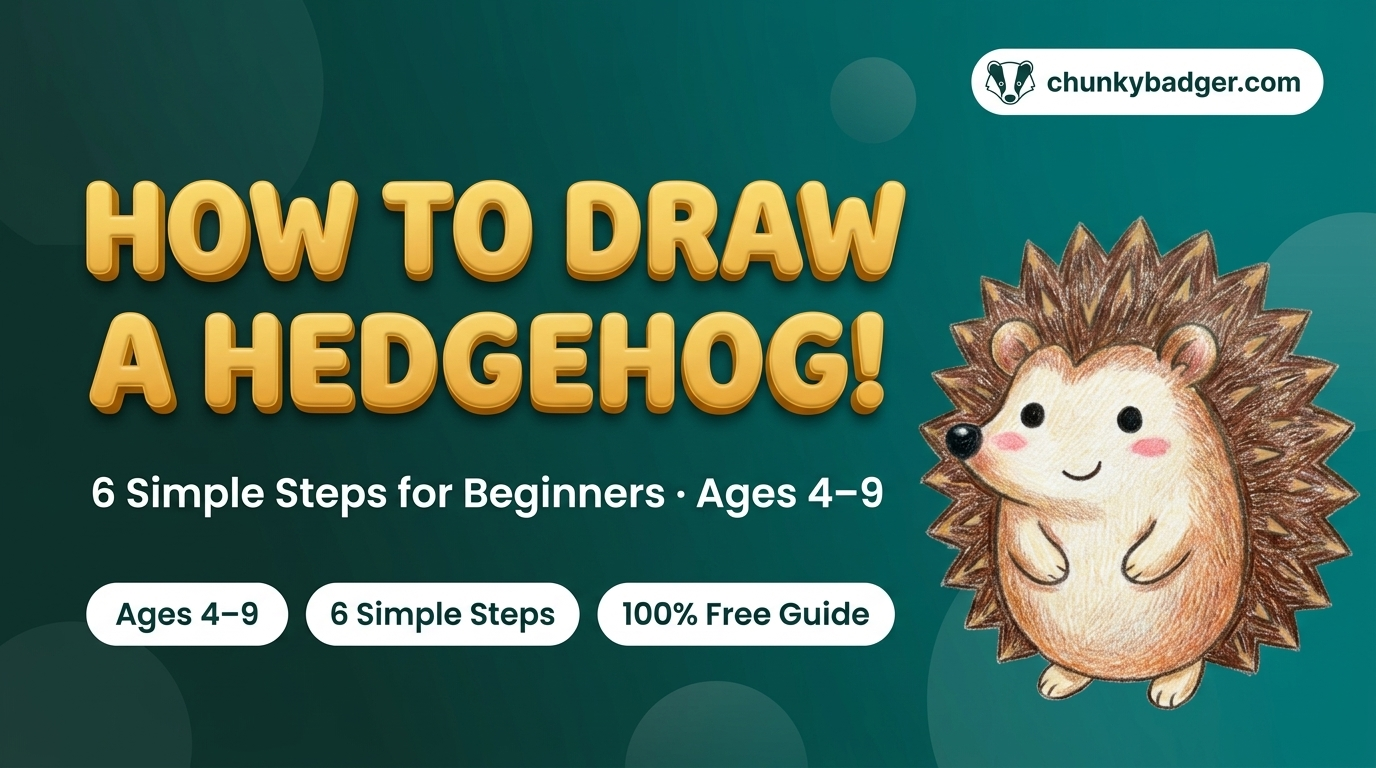
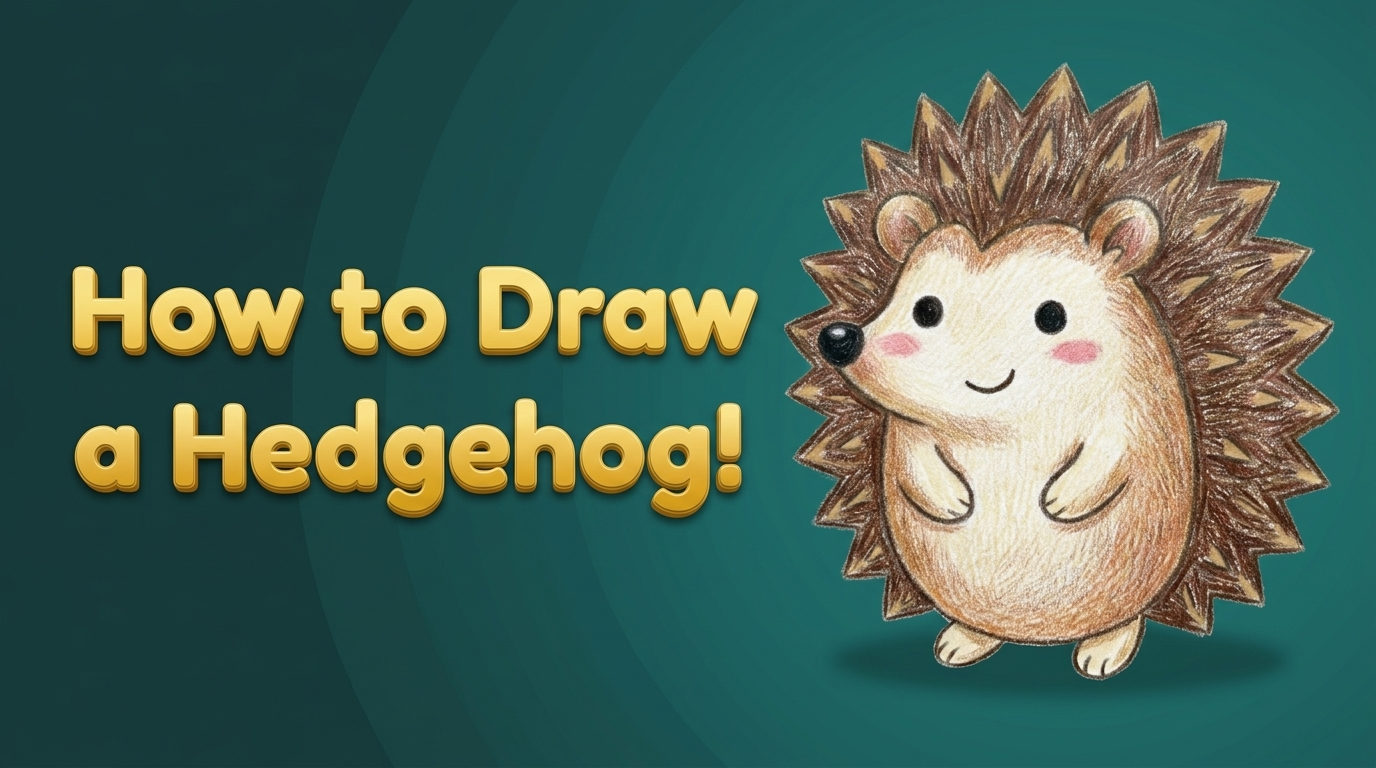
style(blog): update hedgehog header graphic with title case yellow text and responsive fit
- Update header graphic image to remove white text, lozenges, and badges
- Change yellow title text to Title Case (How to Draw a Hedgehog!)
- Optimize responsive image sizing for desktop and mobile viewports

diff --git a/blog.html b/blog.html
@@ -453,6 +453,9 @@
             .blog-card:first-child {
                 grid-column: span 1;
             }
+            .blog-card:first-child .blog-card-thumb {
+                height: 200px;
+            }
             .blog-hero-animals {
                 gap: 15px;
             }
@@ -535,10 +538,8 @@
 
                     <!-- Card 1 — FEATURED -->
                     <a href="blog/how-to-draw-a-hedgehog-for-kids.html" class="blog-card reveal" data-category="guides" aria-label="Read: How to Draw a Hedgehog for Kids | Easy Guide">
-                        <div class="blog-card-thumb" style="background: linear-gradient(135deg, #1a3a3a 0%, #218380 100%);">
-                            <div class="thumb-placeholder" style="width: 100%; height: 100%;">
-                                <img src="images/blog/how-to-draw-a-hedgehog-header.png" alt="How to Draw a Hedgehog for Kids header graphic" style="width: 100%; height: 100%; object-fit: cover;">
-                            </div>
+                        <div class="blog-card-thumb" style="background: #1a3a3a;">
+                            <img src="images/blog/how-to-draw-a-hedgehog-header.png" alt="How to Draw a Hedgehog for Kids header graphic" class="blog-card-thumb-bg" style="object-fit: cover; object-position: center;">
                             <span class="blog-card-category cat-guides">How-to Guide</span>
                             <span class="coming-soon-badge" style="background: #218380; color: white;">✨ Featured Guide</span>
                         </div>

diff --git a/blog/how-to-draw-a-hedgehog-for-kids.html b/blog/how-to-draw-a-hedgehog-for-kids.html
@@ -655,7 +655,7 @@
                     <article class="post-content" id="post-content">
 
                         <figure class="steps-image-wrapper" style="padding: 0; overflow: hidden; margin-bottom: 2rem; border-radius: 16px; border: 1px solid rgba(0,0,0,0.06);">
-                            <img src="../images/blog/how-to-draw-a-hedgehog-header.png" alt="How to Draw a Hedgehog for Kids in 6 Simple Steps header graphic" style="width: 100%; border-radius: 16px; display: block;" loading="lazy">
+                            <img src="../images/blog/how-to-draw-a-hedgehog-header.png" alt="How to Draw a Hedgehog for Kids header graphic" style="width: 100%; max-width: 100%; height: auto; border-radius: 16px; display: block; object-fit: cover;" loading="lazy">
                         </figure>
 
                         <p>As the nights start drawing in and the garden fills with crunchy leaves, hedgehogs are busy snuffling about looking for a cosy spot to spend the winter. There's something brilliant about their spiky, round little shape — it makes them one of the most fun British animals to draw, and a great one for beginners because those spikes hide a lot of small mistakes!</p>
